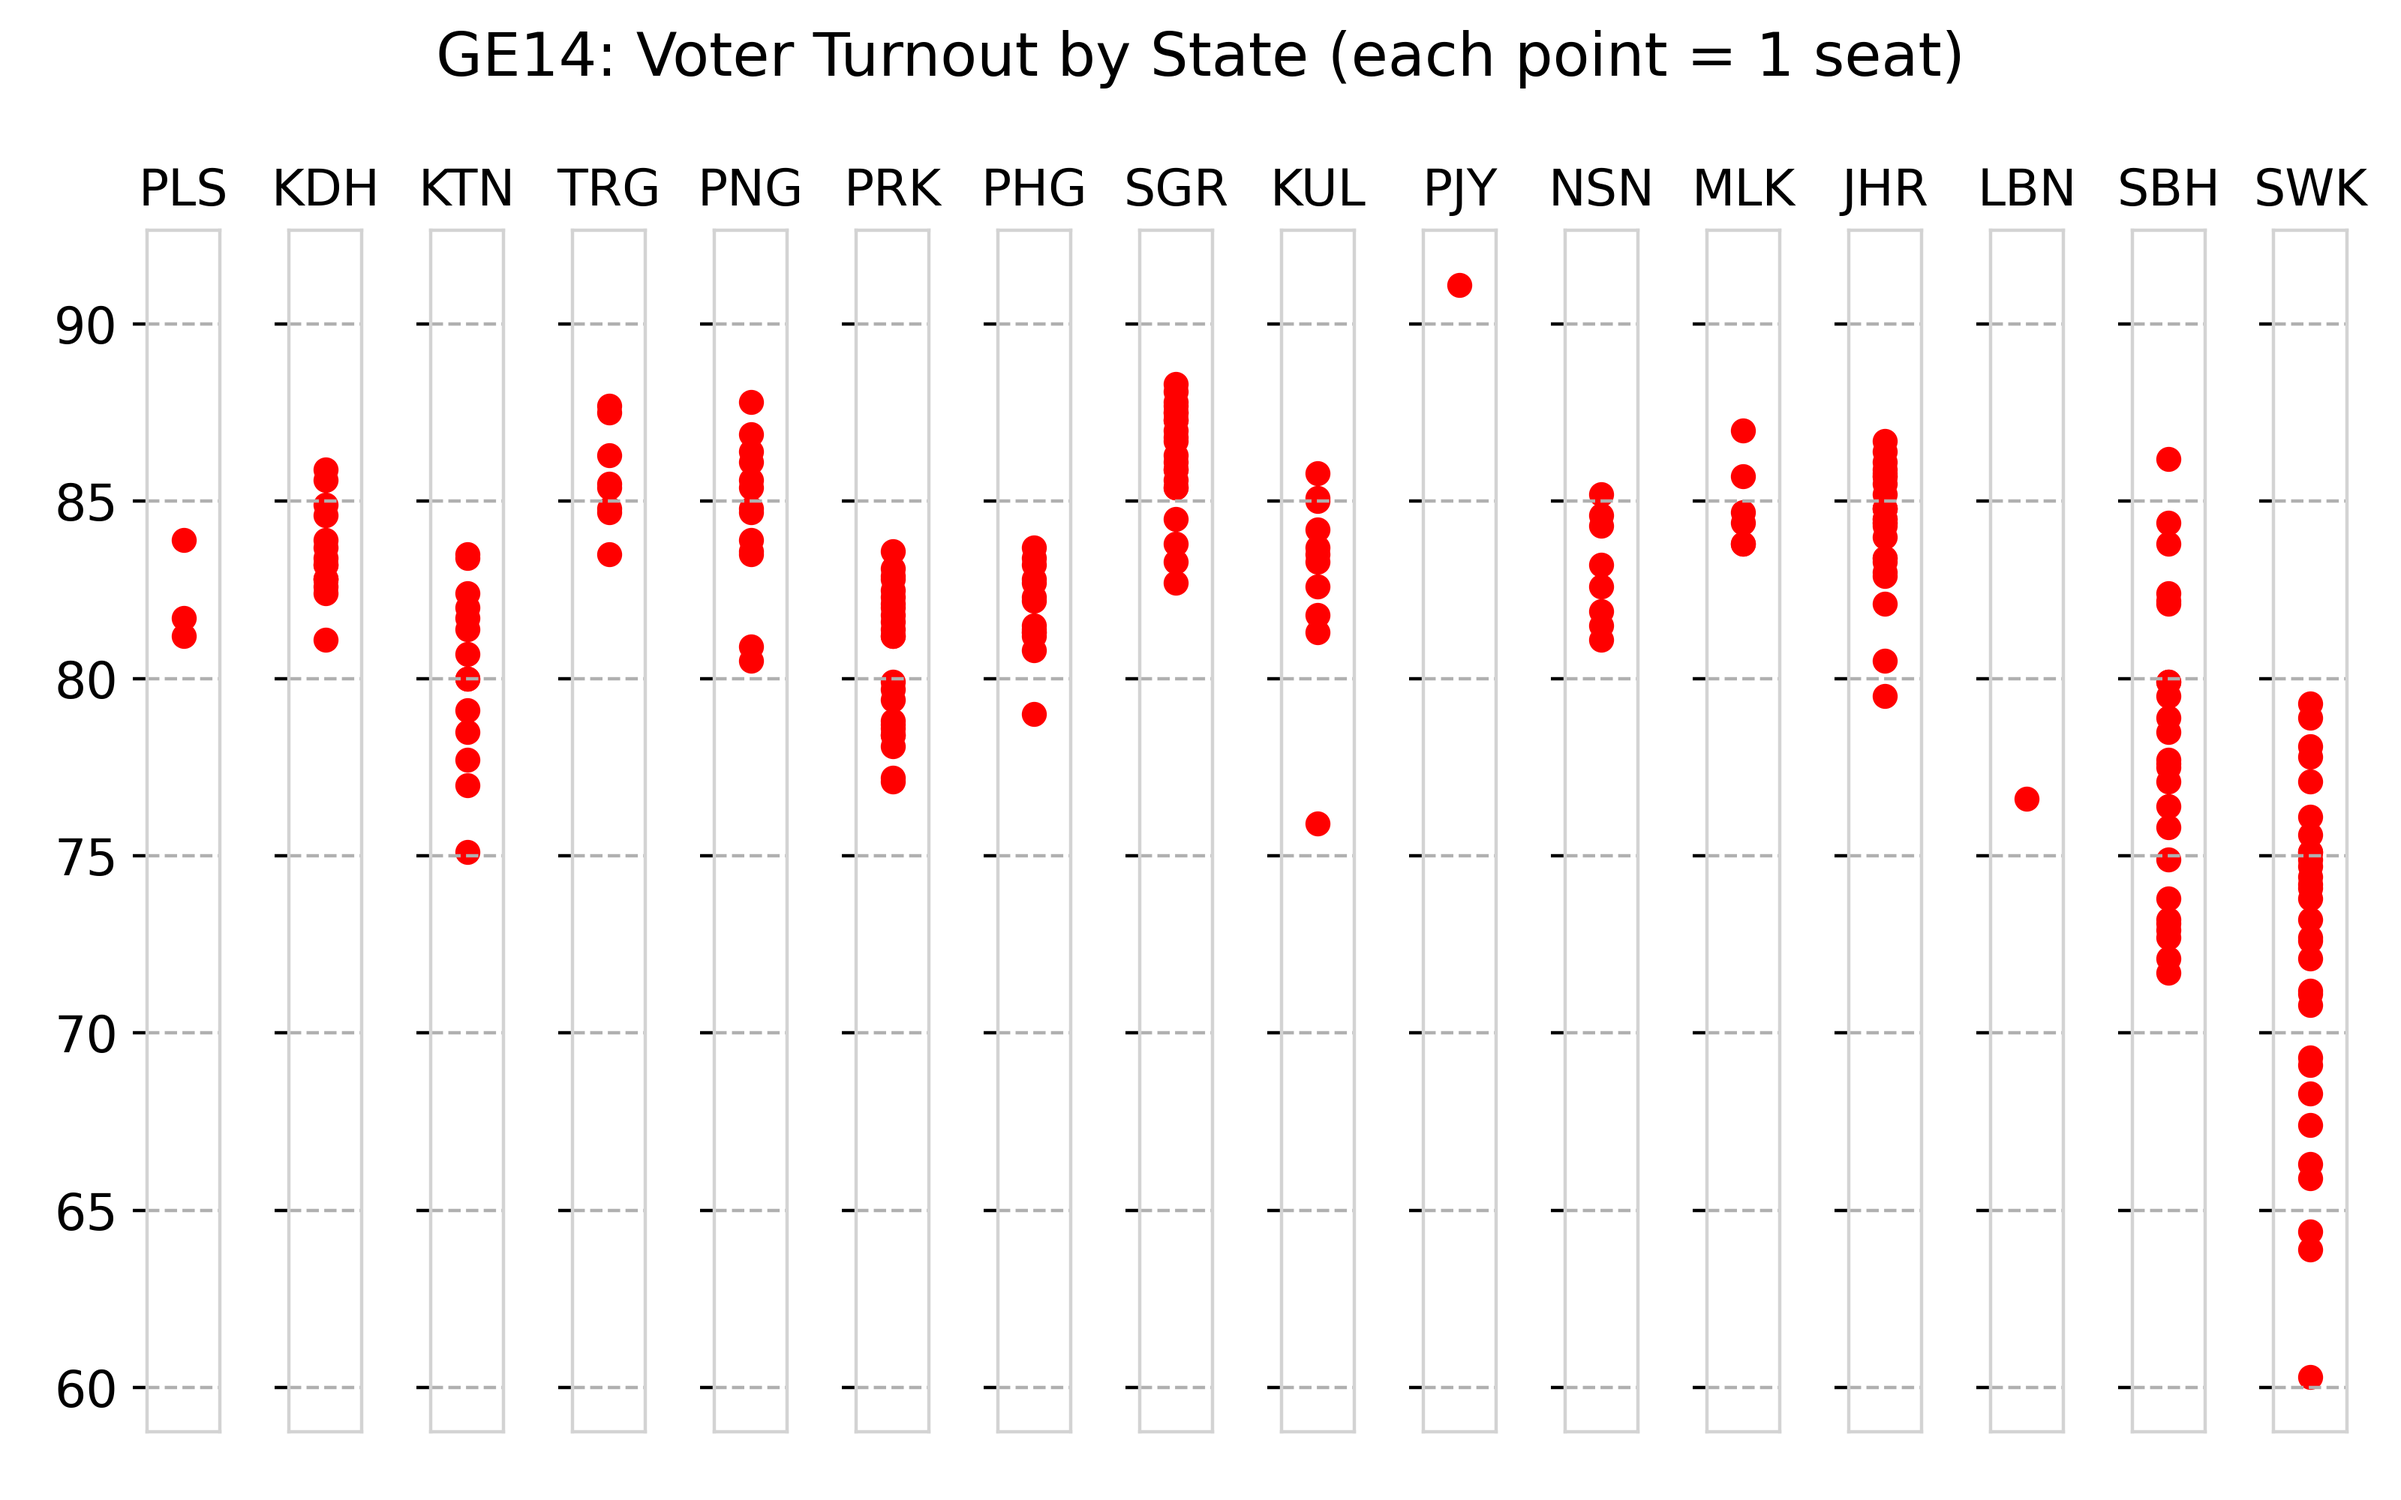
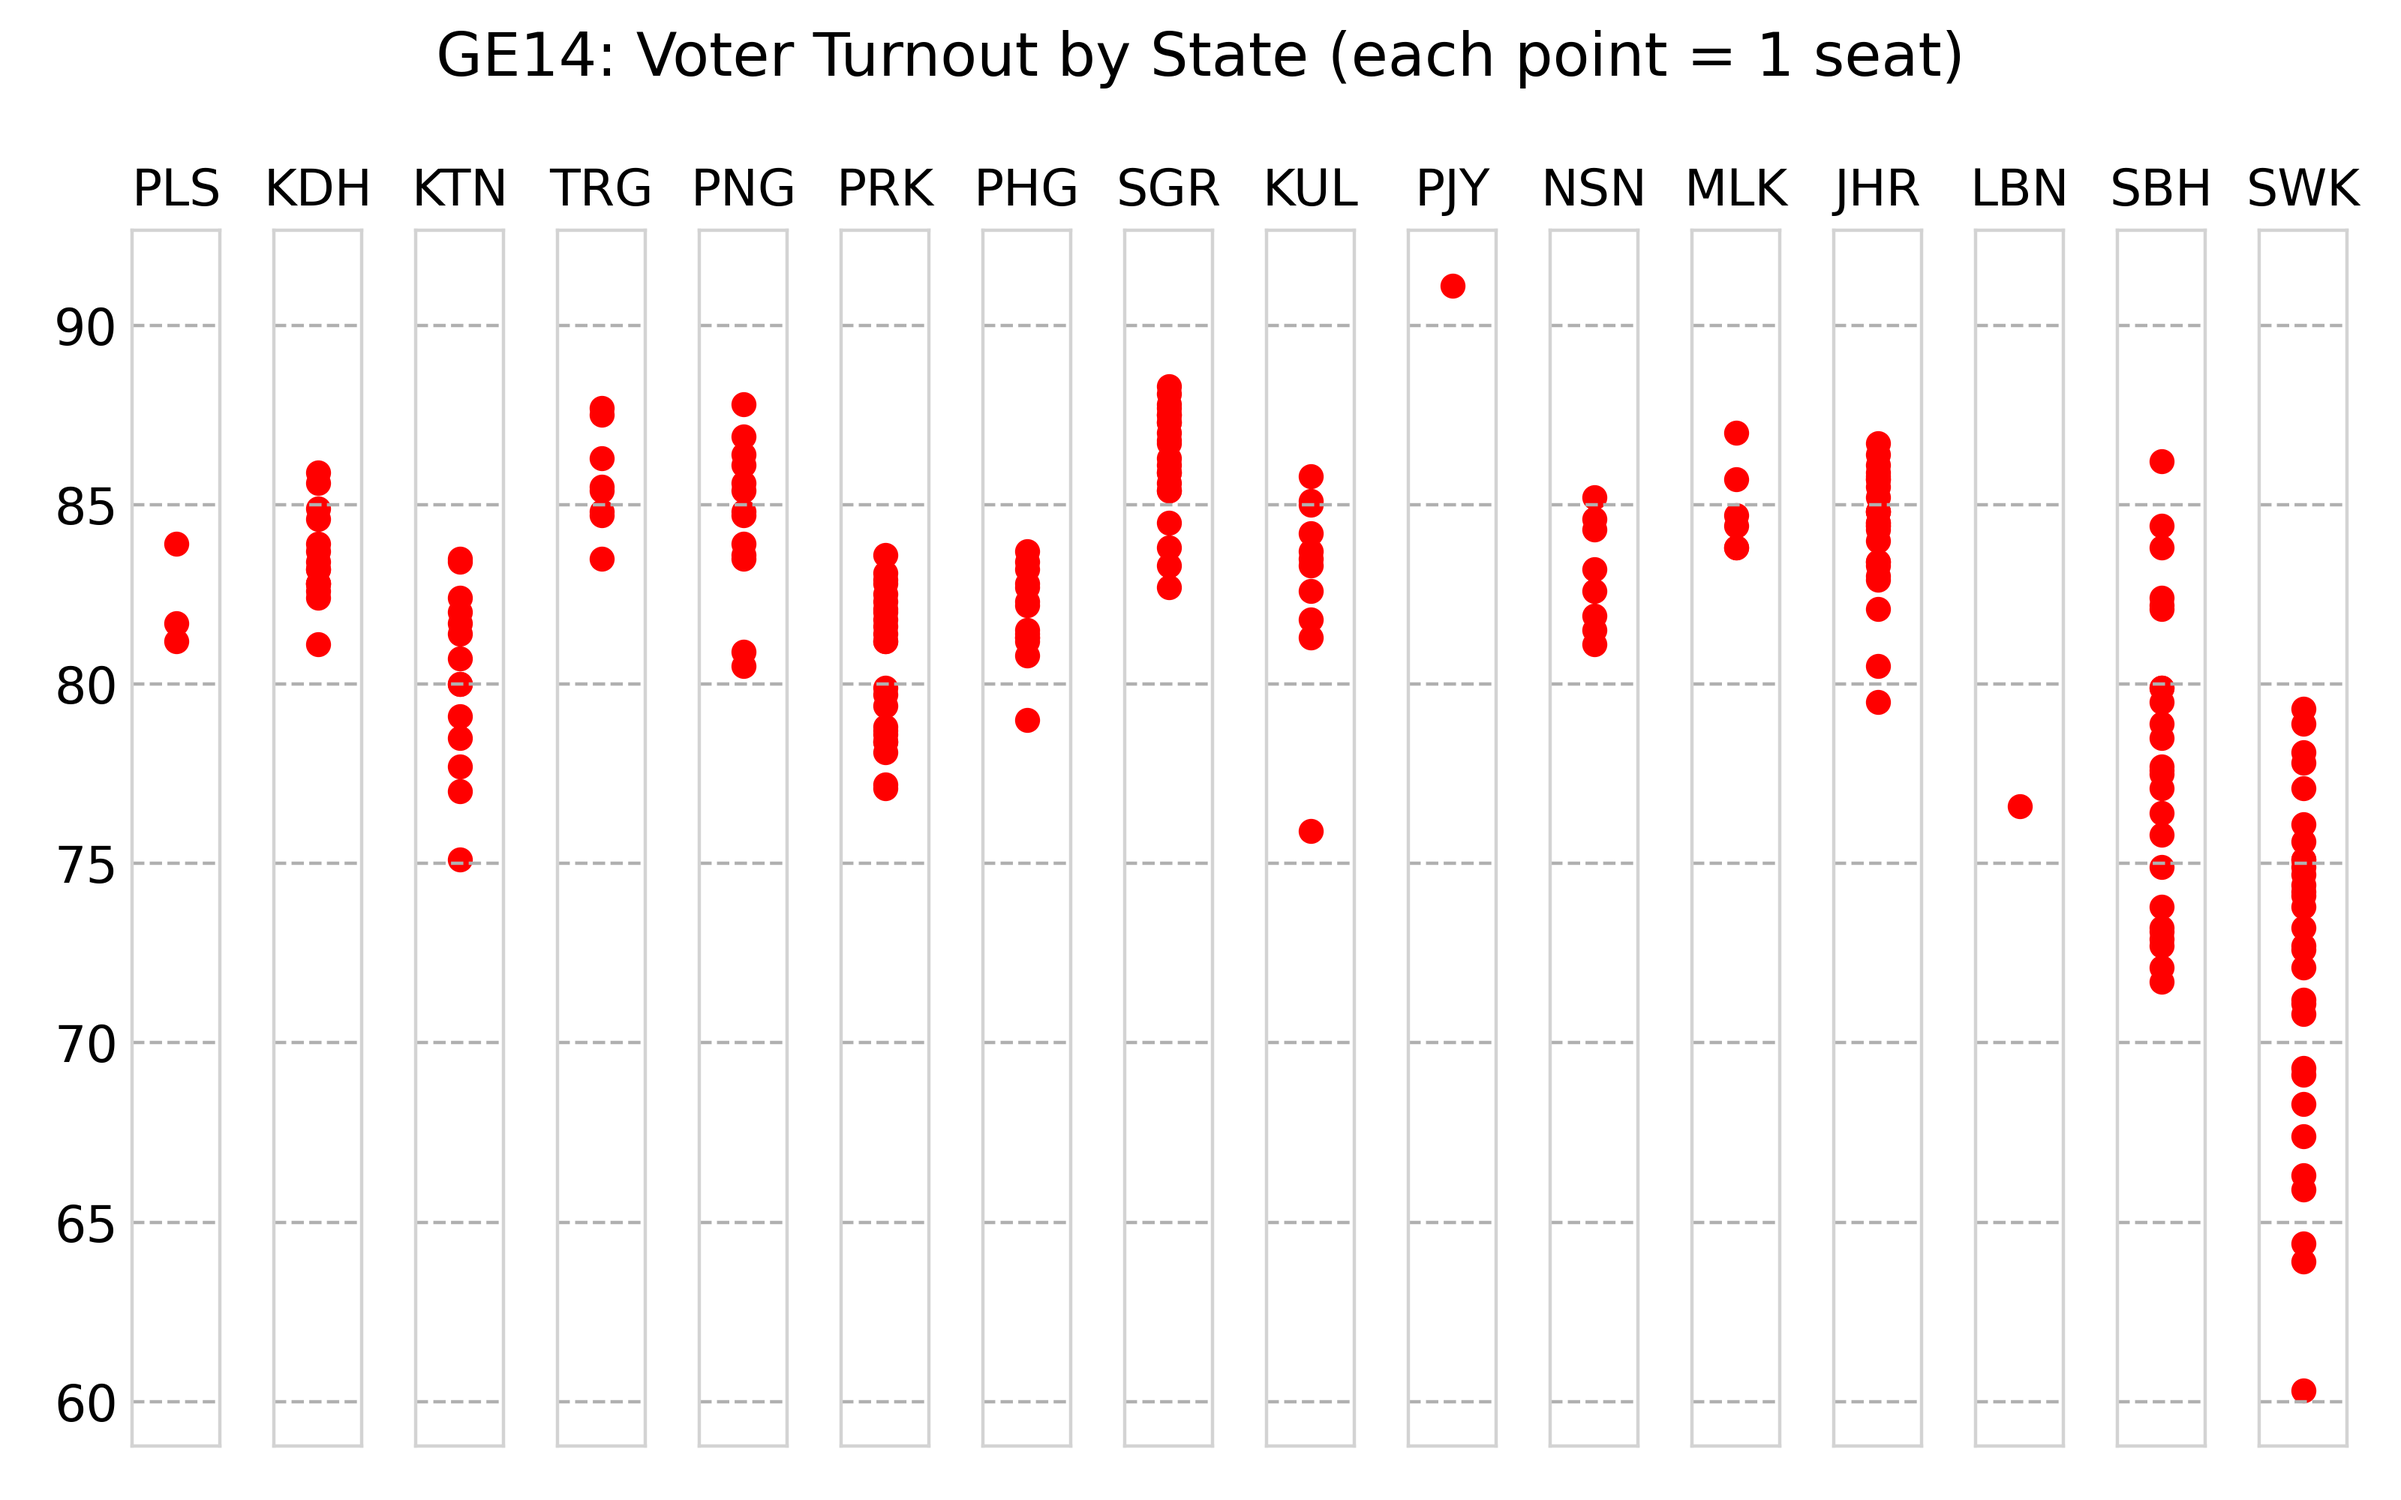
feat: generalised jitterplot

diff --git a/charts.py b/charts.py
@@ -7,7 +7,13 @@ import warnings
 from constants import states, states_short
 
 
-def jitterplot_turnout(df=None):
+def jitterplot(df=None, v='peratus_keluar'):
+
+    v_suffix = {'peratus_keluar': 'turnout',
+                'rosak_vs_keseluruhan': 'undirosak'}
+    v_title = {'peratus_keluar': 'Voter Turnout',
+               'rosak_vs_keseluruhan': 'Undi Rosak Prevalence'}
+
     plt.rcParams.update({'font.size': 12,
                         'font.family': 'sans-serif',
                          'grid.linestyle': 'dashed',
@@ -17,7 +23,7 @@ def jitterplot_turnout(df=None):
     fig, ax = plt.subplots(1, 16, sharex=True, sharey=True)
     axes = ax.ravel()
     for i in range(16):
-        tf = df[df.state == states[i]].copy()[['peratus_keluar']]
+        tf = df[df.state == states[i]].copy()[[v]]
         tf.columns = ['y']
         tf['x'] = 0
         tf.plot(kind='scatter', x='x', y='y', s=25, c='red', ax=axes[i])
@@ -28,8 +34,9 @@ def jitterplot_turnout(df=None):
         axes[i].xaxis.set_visible(False)
         axes[i].set_facecolor('white')
         axes[i].set_title(states_short[i], fontsize=12, fontfamily='sans-serif')
-    plt.suptitle('GE14: Voter Turnout by State (each point = 1 seat)')
-    plt.savefig('charts/jitterplot_turnout.png', pad_inches=0.2, dpi=400)
+        axes[i].tick_params(axis=u'both', which=u'both', length=0)
+    plt.suptitle(f'GE14: {v_title[v]} by State (each point = 1 seat)')
+    plt.savefig(f'charts/jitterplot_{v_suffix[v]}.png', pad_inches=0.2, dpi=400)
 
 
 def scatterplot_margin_v_turnout(df=None):
@@ -167,18 +174,20 @@ def choropleth_binary(tf=None, plot_for=['Malaysia'], v='tidakhadir_vs_majoriti'
 # Load election results (once), then plot charts that depend only on the election results
 df = pd.read_csv('results-parlimen/ge14.csv')
 df['majoriti_peratus'] = df.majoriti/df.undi_keluar_peti * 100
-jitterplot_turnout(df=df)
 scatterplot_margin_v_turnout(df=df)
 
+for v in ['rosak_vs_keseluruhan', 'peratus_keluar']:
+    jitterplot(df=df, v=v)
+
 # Load basemaps(once only); relatively large (37MB) because high-res (necessary for clean parlimen --> state dissolve)
-geo_o = gpd.read_file('maps/parlimen.geojson')
-geo_o.loc[~geo_o.code_state.isin([12, 13, 15]), 'geometry'] = geo_o.geometry.translate(9, 4.5)  # More compact Msia map
-geo_o = pd.merge(geo_o, df,
-                 left_on=['state', 'parlimen'],
-                 right_on=['state', 'seat'], how='left')  # Merge with election results
+# geo_o = gpd.read_file('maps/parlimen.geojson')
+# geo_o.loc[~geo_o.code_state.isin([12, 13, 15]), 'geometry'] = geo_o.geometry.translate(9, 4.5)  # More compact Msia map
+# geo_o = pd.merge(geo_o, df,
+#                  left_on=['state', 'parlimen'],
+#                  right_on=['state', 'seat'], how='left')  # Merge with election results
 
-for v in ['peratus_keluar', 'majoriti_peratus', 'rosak_vs_keseluruhan']:
-    choropleth_gradient(df=geo_o, plot_for=['Malaysia'] + states, v=v)
+# for v in ['peratus_keluar', 'majoriti_peratus', 'rosak_vs_keseluruhan']:
+#     choropleth_gradient(df=geo_o, plot_for=['Malaysia'] + states, v=v)
 
-for v in ['tidakhadir_vs_majoriti', 'rosak_vs_majoriti']:
-    choropleth_binary(tf=geo_o, plot_for=['Malaysia'] + states, v=v)
+# for v in ['tidakhadir_vs_majoriti', 'rosak_vs_majoriti']:
+#     choropleth_binary(tf=geo_o, plot_for=['Malaysia'] + states, v=v)
